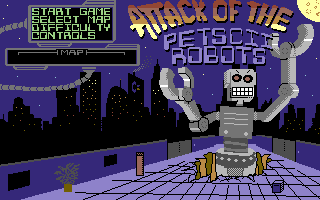
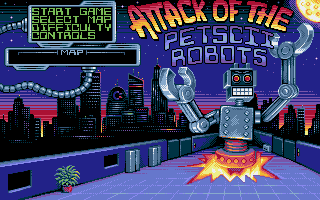
Take new intro screen into use

diff --git a/petrobots.cpp b/petrobots.cpp
@@ -2242,7 +2242,7 @@ void DISPLAY_MAP_NAME()
     const char* name = CALC_MAP_NAME();
     for (int Y = 0; Y != 16; Y++) {
 #ifdef PLATFORM_IMAGE_SUPPORT
-        writeToScreenMemory(0x119 + Y, convertToPETSCII(name[Y]), 13);
+        writeToScreenMemory(0x119 + Y, convertToPETSCII(name[Y]), 15);
 #else
         writeToScreenMemory(0x16A + Y, convertToPETSCII(name[Y]));
 #endif
@@ -2261,7 +2261,7 @@ void REVERSE_MENU_OPTION(bool reverse)
 {
 #ifdef PLATFORM_COLOR_SUPPORT
     for (int Y = 0; Y != 10; Y++) {
-        writeToScreenMemory(MENU_CHART_L[MENUY] + Y, SCREEN_MEMORY[MENU_CHART_L[MENUY] + Y], reverse ? 1 : 13);
+        writeToScreenMemory(MENU_CHART_L[MENUY] + Y, SCREEN_MEMORY[MENU_CHART_L[MENUY] + Y], reverse ? 14 : 15);
     }
 #else
     for (int Y = 0; Y != 10; Y++) {
